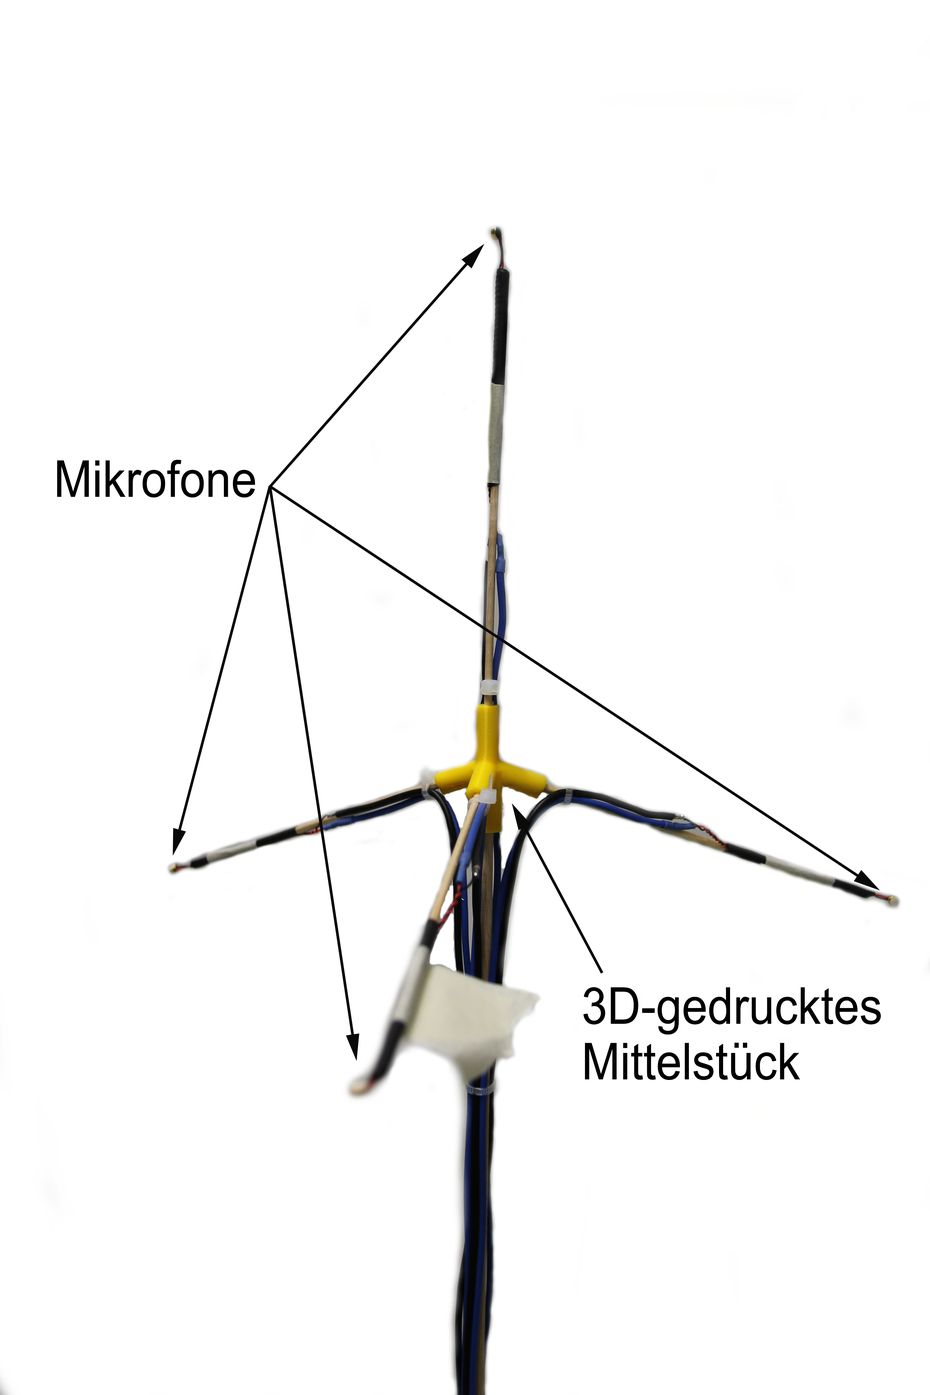
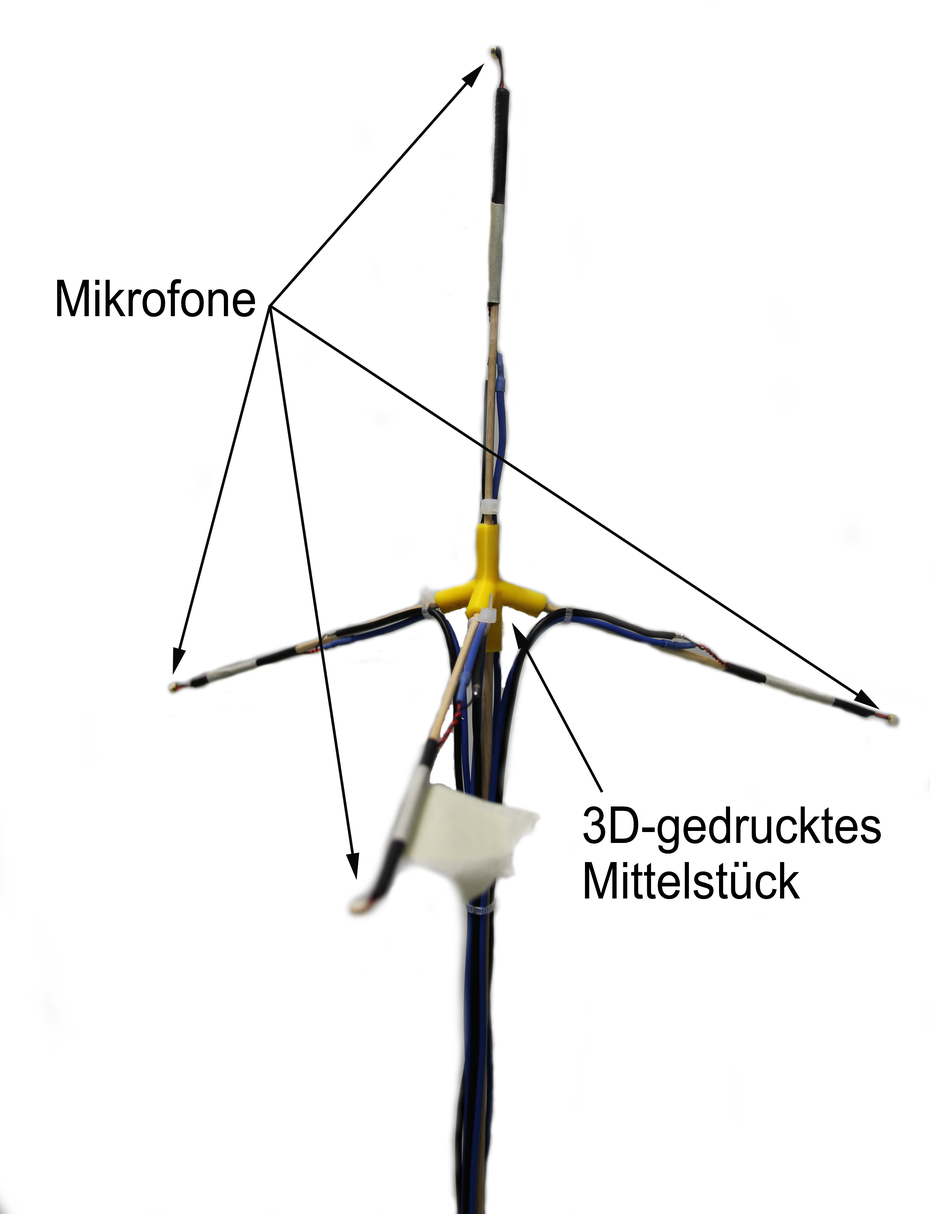
layout and minor changes

diff --git a/implementation.tex b/implementation.tex
@@ -1,15 +1,26 @@
 \section{Umsetzung der einzelnen Module}
-Der Kern unserer Idee ist die Richtungsbestimmung, die aus den Phasendifferenzen der verschiedenen Wellen bei verschiedenen Mikrofonen eine Richtung berechnet. Um diese Komponente überprüfen und das Verfahren anwenden zu können, haben wir die verschiedenen Module implementiert. Hierbei haben wir diese wie vorgesehen so universell umgesetzt, dass wir das Richtungsbestimmungsmodul sowohl mithilfe einer Simulation als auch mithilfe eines praktischen Aufbaus evaluieren können. Das nachfolgende Kapitel beschreibt eben diese Umsetzung in der Reihenfolge, mit der das Signal verarbeitet wird; von der Aufnahme der Schallquellen bis zur Ausgabe der Positionsdaten.
+Der Kern unserer Idee ist die Richtungsbestimmung, die aus den Phasendifferenzen der verschiedenen Wellen bei verschiedenen Mikrofonen eine Richtung berechnet. Um diese Komponente überprüfen und das Verfahren anwenden zu können, haben wir die verschiedenen Module implementiert (Siehe Abbildung \ref{fig:flowchart}). Hierbei haben wir diese wie vorgesehen so universell umgesetzt, dass wir das Richtungsbestimmungsmodul sowohl mithilfe einer Simulation als auch mithilfe eines praktischen Aufbaus evaluieren können. Das nachfolgende Kapitel beschreibt eben diese Umsetzung in der Reihenfolge, mit der das Signal verarbeitet wird; von der Aufnahme der Schallquellen bis zur Ausgabe der Positionsdaten.
+\begin{figure}[H]
+	\includegraphics[width=\linewidth]{img/flowchart}
+	\caption{Der modulare Aufbau unseres Konzeptes}
+	\label{fig:flowchart}
+\end{figure}
 
 \subsection{Audiosimulation (Modul 1)}
 Um die Richtungsbestimmung unabhängig von Störfaktoren wie dem Rauschen und der Reflexion des Schalls an Wänden oder anderen Gegenständen zu überprüfen, haben wir zunächst eine Simulation entwickelt. Außerdem lässt sich mit dieser gezielt der Einfluss verschiedener Störfaktoren untersuchen. Die Simulation kann beliebig viele Mikrofone an beliebigen Positionen simulieren. Leider konnten wir keine bestehenden Lösungen für die Simulation von dreidimensionalem Ton, wie \textit{OpenAL} \cite{OpenAL}, welches eine Programmbibliothek für die Simulation von Schall ist, verwenden, da bei diesen die Anzahl der Mikrofone limitiert ist und die Phase des Audiosignals in der Simulation vernachlässigt wird. Da die Funktion unserer Richtungsbestimmung unabhängig von den Amplituden der Schallquellen bei den einzelnen Mikrofonen ist, haben wir unsere Simulation rein auf die Phase und die Laufzeit beschränkt. Um eine interaktive Benutzung und eine leichte Überprüfung der Richtungsbestimmung zu gewährleisten, besitzt die Simulation eine graphische Benutzeroberfläche, mit der man interaktiv Schallquellen hinzufügen und entfernen kann. Außerdem kann die Simulation auch die bestimmten Richtungen darstellen und ermöglicht damit einen einfachen Vergleich der bestimmten und tatsächlichen Richtungen. Das Simulationsmodul wurde in der Programmiersprache \textit{C++} implementiert, da diese eine gute \textit{OpenGL} Integration bietet.
 
 \begin{figure}[H]
-  \includegraphics[width=\linewidth *.7]{img/bildsimulation}
+	\centering
+  \includegraphics[width=(0.7\linewidth)]{img/bildsimulation}
   \caption{Screenshot der Simulation, die roten Punkte stellen die Mikrofone dar, die schwarzen die Schallquellen und die grünen die georteten Positionen}
 \end{figure}
 
 \subsection{Hardware (Modul 1)}
+\begin{wrapfigure}{R}{0.4\textwidth}
+	\centering
+	\includegraphics[width=\linewidth]{img/tet}
+	\caption{Aufbau unserer Messapparatur}
+\end{wrapfigure}
 Um das durch die Simulation evaluierbare Verfahren praktisch zu testen und zu nutzen, muss nur die Quelle der Daten, also das erste Modul, ausgetauscht werden. Die Aufgabe des ersten Moduls ist es nun nicht mehr, virtuelle Mikrofone, welche die Aufnahme von virtuellen Schallquellen simulieren zu produzieren, sondern die Signale echter Mikrofone, welche echte Schallquellen aufnehmen, einzulesen. Um die Signale der Mikrofone mit einem Computer zu verarbeiten müssen sie digitalisiert werden. Zusätzlich benötigt man eine alternative Implementation der des ersten Moduls, die die Daten von der Hardware annimmt und an das zweite Modul weiterleitet. Hierbei kommen wieder die Vorteile unserer modularen Vorgehensweise zum tragen, da nur das erste Modul ersetzt werden muss und die gesamte restliche Software beibehalten werden kann. Dies sorgt auch dafür, dass die Simulation und die Realwelttests immer die gleichen Auswertungsalgorithmen verwenden und so sehr gut vergleichbar sind.
 \subsubsection{Mikrofone}
 Die erste Komponente, die es bei einem realen Aufbau der Messapparatur eine wichtige Rolle spielt, ist die der Schallwandlung. Dies wird durch Mikrofone realisiert, an die es einige Anforderungen gibt. Die wichtigste Anforderung ist, dass sie eine möglichst gleichmäßige Richtcharakteristik haben.
@@ -17,7 +28,6 @@ Eine weitere Anforderung ist, dass sie möglichst klein sind, da der Abstand zwi
 Wir haben uns dafür entschieden, Elektretmikrofonkapseln zu verwenden, da diese üblich sind, keine aufwendige Elektronik zur Ansteuerung benötigen und die oben aufgeführten Anforderungen relativ gut erfüllen \cite{elektret}.
 Die meisten für uns relevanten Parameter der Mikrofone konnten wir aus den Datenblättern entnehmen. Eine Ausnahme hiervon ist die Richtcharakteristik, welche jedoch für uns sehr wichtig ist, da sie die Messqualität sehr stark beeinflusst. Diese sollte möglichst gleichmäßig sein, da nur so aus allen Richtungen Daten von gleicher Qualität aufgenommen werden können. Wenn zum Beispiel alle Mikrofone eine Nierencharakteristik aufweisen und sie in einem gleichseitigen Dreieck angeordnet sind, liefert mindestens ein Mikrofon ein deutlich schwächeres Signal als die anderen, was dazu führt, das die Phasenlage der einzelnen Wellen ungenauer bestimmt werden und mit ihnen auch die Lokalisation ungenauer wird.
 Um unter diesem Aspekt geeignete Mikrofone zu finden, haben wir die Richtcharakteristiken verschiedener Mikrofone mittels einer selbst entwickelten Messapparatur und einer selbst entwickelten Messsoftware vermessen. Die hierfür entwickelte Messapparatur sendet mittels eines Lautsprechers eine Sinus-Schwingung aus und misst, wie stark diese vom Mikrofon aufgenommen wurde. Danach dreht sie das Mikrofon um einen festgelegten Winkel weiter und fertigt erneut eine Messung an. Dieser Vorgang wird solange wiederholt, bis das Mikrofon einmal um 360$^{\circ}$ gedreht wurde.
-
 \begin{figure}[H]
   \centering
   \includegraphics[width=0.8\linewidth]{img/chara_mess}
@@ -31,12 +41,6 @@ Die so ermittelten Daten können nun mittels des freien Plottingprogramms \texti
   \caption{Auf den beiden Grafiken ist die gemessene Amplitude des Mikrofons über den Winkel aufgetragen. Bei der linken Grafik kann man feststellen, dass das vermessene Mikrofon eine sehr ungleichmäßige Charakteristik aufweist, diese Mikrofone haben wir zu Anfang verwendet. Auf der rechten Seite ist die Charakteristik der Mikrofone zu sehen, die wir in unserem aktuellen Testaufbau verwenden. Diese ist sehr gleichmäßig, weshalb wir die zuerst verwendeten Mikrofone durch diese Mikrofone ausgetauscht haben.}\label{fig:caracter}
 \end{figure}
 Für die reale Messapparatur haben wir vier Mikrofone in einem Tetraeder angeordnet. Dadurch, dass ein Tetraeder symmetrisch ist, sind die Fehler in alle Richtungen ungefähr gleich groß und die Richtungsbestimmung ist in allen Richtungen gleich gut. Um die Charakteristik der Mikrofone möglichst wenig zu verändern, haben wir die Mikrofone nur an ihrem Kabel mit dem Tetraeder verbunden. Dadurch ist der Schallschatten durch den Tetraeder relativ gering. Das Mittelstück des Tetraeders haben wir mit Hilfe eines 3D Druckers hergestellt.
-\begin{wrapfigure}[H]
-  \begin{center}
-    \includegraphics[width=0.35\linewidth]{img/tet}
-  \end{center}
-  \caption{Aufbau unserer Messapparatur}
-\end{wrapfigure}
 \subsubsection{Audiointerface}
 Auch an das Audiointerface, also die Verbindung von Mikrofonen zum Computer, gibt es bestimmte Voraussetzungen. So benötigt unser Verfahren mindestens 4 Mikrofone, jedoch lässt es sich einfach auf mehr Kanäle erweitern, was der Genauigkeit zugute kommt. Daher wird ein Audiointerface mit möglichst vielen Kanälen gesucht. Eine weitere wichtige Anforderung an das Audiointerface ist eine hohe Auflösung, da hierdurch die Signalqualität verbessert wird und digitale Verstärkung bei ausreichender Audioqualität möglich ist. Um die Elekretmikrofonkapseln an das Audiointerface anzuschließen, benötigt man zusätzlich eine Schaltung, welche das unsymmetrische Signal der Elektretmikrofonkapsel in ein symmetrisches Signal für das Audiointerface umwandelt. Außerdem muss diese die Phantomspeisung, die das Audiointerface bereitstellt und eine Spannung von 48V hat, in eine Tonaderspeisung für das Mikrofon konvertieren. Hierfür kommt die Schaltung von \cite{Powering_microphones} zum Einsatz.
 
@@ -50,8 +54,9 @@ Aus einer diskreten Fourier-Transformation von $n$ reellen Zahlen erhält man ei
 $$
 f = \frac{i\cdot r}{n}
 $$
-$r$ ist dabei die Abtastrate des Signals. Die Amplitude $A$ des Sinus lässt sich mit dem Betrag der komplexen Zahl berechnen und die Phase $\phi$ mit dem Arcus-Tangens, dies entspricht der Koordinatentransformation von einem kartesischem in das polare Koordinatensystem:
+$r$ ist dabei die Abtastrate des Signals. Die Amplitude $A$ des Sinus lässt sich mit dem Betrag der komplexen Zahl berechnen und die Phase $\phi$ mit dem Arcus-Tangens, dies entspricht der Koordinatentransformation von einem kartesischem in das polare Koordinatensystem:\\
 \begin{minipage}{0.49\textwidth}
+	\vspace{-40pt}
   $$
   A = \sqrt[]{{\Re(z)}^2 + {\Im(z)}^2}
   $$
@@ -63,14 +68,14 @@ $r$ ist dabei die Abtastrate des Signals. Die Amplitude $A$ des Sinus lässt sic
   $$
 \end{minipage}
 \begin{minipage}{0.49\textwidth}
-  \begin{figure}
+  \begin{figure}[H]
     \centering
-    \scalebox{.6}{\input{img/polarconvert.tex}}
+    \scalebox{.7}{\input{img/polarconvert.tex}}
     \caption{Transformation von kartesischen zu polaren Koordinatensystem}
     \label{fig:polarconvert}
   \end{figure}
-  \todo{fixme}
 \end{minipage}
+\\
 Die Verwendung von $\operatorname{atan2}(y,x)$ anstelle von $\arctan\frac{y}{x}$ sorgt dafür, dass der richtige Winkel berechnet wird. $\arctan\frac{y}{x}$ liefert nur Winkel von -90\degree bis 90\degree, deswegen muss anhand des Vorzeichens von $x$ und $y$ bestimmt werden, in welchem Quadranten der Punkt liegt und der von $\arctan\frac{y}{x}$ gelieferte Winkel dementsprechend verschoben werden.
 
 Das in Frequenz, Phase und Amplitude konvertierte Ergebnis der Fourier-Transformation wird dann gefiltert. Alle Frequenzen mit einer Amplitude, die kleiner als eine bestimmte Untergrenze ist, werden verworfen. Die verbleibenden Frequenzen werden an das Richtungsmodul übermittelt.
@@ -79,19 +84,20 @@ Das in Frequenz, Phase und Amplitude konvertierte Ergebnis der Fourier-Transform
 Die von der Fourier-Transformation bestimmten Tripel aus Frequenz, Phase und Amplitude werden vom Richtungsmodul weiter verarbeitet. In das Richtungsmodul können verschiedene Methoden der Richtungsbestimmung eingesetzt werden. Das Verfahren zur Richtungsbestimmung, das von dem Richtungsmodul verwendet wird, kann einfach ausgetauscht werden. Die ermittelten Richtungen werden an die Ausgabe weitergesendet um sie dort auszugeben oder zur Filterung des Audio-Signals zu verwenden.
 Das Richtungsmodul ist in C++ geschrieben und verwendet \textit{LAPACK}\cite{Anderson:1990:LPL:110382.110385}.
 \subsection{Ausgabemodul (Modul 4)}
+\begin{wrapfigure}{r}{0.5\textwidth}
+	\centering
+	\includegraphics[width=0.49\textwidth]{img/output}
+	\caption{Screenshot unseres Beispiel-Ausgabemoduls}
+	\label{fig:output}
+\end{wrapfigure}
 Wir haben ein Beispiel-Ausgabemodul in Javascript implementiert. Mit diesem ist es möglich, die Positionsdaten zu visualisieren, was das unmittelbare Evaluieren stark vereinfacht. Die Programmiersprache Javascript haben wir gewählt, damit dieses Ausgabemodul auf jedem Endgerät mit modernem Webbrowser, wie z.B. Smartphones oder Laptops, ausgeführt werden kann.\\
 Die Simulation enthält eine weitere Implementation eines Ausgabemoduls. Auch diese visualisiert die bestimmten Richtungen, erlaubt es aber, diese auf der gleichen Benutzeroberfläche wie die Sollrichtung anzuzeigen. Dies gibt ein sehr direktes Feedback beim Entwickeln des Algorithmus zur Richtungsbestimmung. Dieses letzte Modul könnte allerdings, dank unseres modularen Konzeptes, bei Bedarf auch anders, z.B. als Plugin für eine \textit{Digital Audio Workstation} (\textit{DAW}) implementiert werden.
-\begin{wrapfigure}{H}{0.5\textwidth}
-  \centering
-  \includegraphics[width=0.49\textwidth]{img/output}
-  \caption{Screenshot unseres Beispiel-Ausgabemoduls}
-  \label{fig:output}
-\end{wrapfigure}
 \subsection{Testen der einzelnen Module}
 Ein weiterer Vorteil der Modularität ist, dass jedes Modul unabhängig von den anderen Modulen funktionsfähig ist. Dadurch kann die korrekte Funktionsweise für jedes Modul einzeln überprüft werden und man kann Fehler besser lokalisieren.
 Die Audiosimulation haben wir mithilfe eines selbstgeschriebenem Plotting Programms überprüft. Dieses stellt die von der Audiosimulation versendeten Samples in Abhängigkeit der Zeit dar. Damit kann manuell die Phasendifferenz von dem Graphen abgelesen und mit dem erwarteten Wert verglichen werden.
 \begin{figure} [H]
-  \includegraphics[width=\linewidth]{img/glplot}
+	\centering
+  \includegraphics[width=.8\linewidth]{img/glplot}
   \caption{Screenshot unseres Plotting Programms}
   \label{fig:glplot}
 \end{figure}

diff --git a/existing.tex b/existing.tex
@@ -1,9 +1,9 @@
 \section{Bestehende Lösungen}
-  Es gibt einige bestehende Ansätze, die die verschiedenen Aspekte des direktionalen Hörens auf eine technische Apparatur übertragen. Diesen begegnen wir in unserem alltäglichen Leben relativ häufig. Die einfachste Form eines solchen Verfahrens ist das Richtmikrofon. Dieses führt allerdings keine aktive Ortung durch, sondern kann lediglich in eine bestimmte Richtung besonders gut Schall aufnehmen. Um diese Fähigkeit für eine Richtungsbestimmung zu nutzen, müsste man also das Richtmikrofon drehen, oder es auf eine andere Weise aktiv nach der Schallquelle ausrichten. Ein weiterer Ansatz, dem wir in unserem alltäglichen Leben noch sehr viel häufiger begegnen, steckt in fast allen Mobiltelefonen. Diese filtern beim Telefonieren verschiedene Umgebungsgeräusche aus dem Mikrofonsignal, um die Sprachqualität zu verbessern. Die hierzu verwendeten Verfahren sind allerdings meist eher einfach gehalten und erlauben keine wirkliche Bestimmung der Herkunftsrichtung eines Geräusches. Man kann sich dieses Verfahren sehr gut als ein Richtmikrofon vorstellen, das einen gewissen Bereich hat, in dem es sehr empfindlich ist, wohingegen es in anderen Bereichen sehr unempfindlich ist. Bei dieser Technik passiert ein Teil der Geräuschunterdrückung in der Signalverarbeitung, also nach der eigentlichen Schallwandlung durch das Mikrofon. Hierdurch unterscheidet sich dieser Ansatz deutlich von dem des Richtmikrofones. Allerdings können auch mithilfe dieser Störgeräuschunterdrückung noch keine Positionen ermittelt werden. Auch moderne Hörgeräte verwenden ein ähnliches Verfahren, welches allerdings auch bei einer weiteren Distanz zwischen Mikrofon und Schallquelle funktioniert, und der gesuchten Lösung somit näher kommt. Sowohl die Geräuschunterdrückung in Handys, als auch die Filtertechniken in Hörgeräten verwenden meist zwei oder drei Mikrophone.
-  \begin{wrapfigure}[H]
-    \centering
-    \includegraphics[width=0.35\linewidth]{img/akusticCamera}
-    \caption{Ein Beispiel für eine akustische Kamera \cite{camera}}
-    \label{fig:camera}
-  \end{wrapfigure}
+  Es gibt einige bestehende Ansätze, die die verschiedenen Aspekte des direktionalen Hörens auf eine technische Apparatur übertragen. Diesen begegnen wir in unserem alltäglichen Leben relativ häufig. Die einfachste Form eines solchen Verfahrens ist das Richtmikrofon. Dieses führt allerdings keine aktive Ortung durch, sondern kann lediglich in eine bestimmte Richtung besonders gut Schall aufnehmen. Um diese Fähigkeit für eine Richtungsbestimmung zu nutzen, müsste man also das Richtmikrofon drehen, oder es auf eine andere Weise aktiv nach der Schallquelle ausrichten. Ein weiterer Ansatz, dem wir in unserem alltäglichen Leben noch sehr viel häufiger begegnen, steckt in fast allen Mobiltelefonen. Diese filtern beim Telefonieren verschiedene Umgebungsgeräusche aus dem Mikrofonsignal, um die Sprachqualität zu verbessern. Die hierzu verwendeten Verfahren sind allerdings meist eher einfach gehalten und erlauben keine wirkliche Bestimmung der Herkunftsrichtung eines Geräusches. Man kann sich dieses Verfahren sehr gut als ein Richtmikrofon vorstellen, das einen gewissen Bereich hat, in dem es sehr empfindlich ist, wohingegen es in anderen Bereichen sehr unempfindlich ist. Bei dieser Technik passiert ein Teil der Geräuschunterdrückung in der Signalverarbeitung, also nach der eigentlichen Schallwandlung durch das Mikrofon. Hierdurch unterscheidet sich dieser Ansatz deutlich von dem des Richtmikrofones. Allerdings können auch mithilfe dieser Störgeräuschunterdrückung noch keine Positionen ermittelt werden. Auch moderne Hörgeräte verwenden ein ähnliches Verfahren, welches allerdings auch bei einer weiteren Distanz zwischen Mikrofon und Schallquelle funktioniert, und der gesuchten Lösung somit näher kommt. Sowohl die Geräuschunterdrückung in Handys, als auch die Filtertechniken in Hörgeräten verwenden meist zwei oder drei Mikrophone.\\
+     \begin{wrapfigure}{r}{0.6\textwidth}
+     	\centering
+     	\includegraphics[width=0.4\linewidth]{img/akusticCamera}
+     	\caption{Ein Beispiel für eine akustische Kamera \cite{camera}}
+     	\label{fig:camera}
+     \end{wrapfigure}
   Eine andere existierende Lösung ist die akustische Kamera (siehe Abb. \ref{fig:camera}). Sie wird dazu verwendet, lärm-emittierende Positionen an Produkten zu finden, um diese optimieren zu können \cite{camera}. Die akustische Kamera verwendet allerdings bedeutend mehr Mikrofone als die anderen Verfahren. Einige Modelle verwenden mehr als 350 Mikrofone \cite{nmics}.Außerdem können bestehende akustische Kameras nicht in andere technische Kontexte eingebettet werden und sind so nicht universell einsetzbar. Da uns alle vorhandenen Lösungen nicht zufrieden gestellt haben, wollten wir ein eigenes Verfahren für die akustischen Richtungsbestimmung entwickeln, das schon mit einer geringen Anzahl von Mikrofonen eine komplette Richtungsbestimmung ermöglicht und leicht erweiterbar auf weitere Auswertungsschritte ist.

diff --git a/konzept.tex b/konzept.tex
@@ -1,13 +1,17 @@
 \section{Konzept}
-Bei der Entwicklung unseres neuen Verfahren zur Richtungsbestimmung haben wir uns stark am menschlichen Gehör und seiner Fähigkeit des Richtungshörens orientiert. Da beim menschlichen Gehör verschiedene Verarbeitungssstufen durchlaufen werden, ist auch unsere Software modular aufgebaut (siehe Abbildung \ref{fig:flowchart}). Nachfolgend werden die einzelnen Module in der Reihenfolge, in der das Signal sie durchläuft, beschrieben. 
+Bei der Entwicklung unseres neuen Verfahren zur Richtungsbestimmung haben wir uns stark am menschlichen Gehör und seiner Fähigkeit des Richtungshörens orientiert. Da beim menschlichen Gehör verschiedene Verarbeitungssstufen durchlaufen werden, ist auch unsere Software modular aufgebaut (siehe Tabelle \ref{analog}). Nachfolgend werden die einzelnen Module in der Reihenfolge, in der das Signal sie durchläuft, beschrieben. 
 Um unser Konzept umzusetzen und zu evaluieren, haben wir uns entschlossen, einerseits eine Computersimulation zu schreiben und andererseits mithilfe einer realen Messapparatur zu überprüfen, ob unser Verfahren auch in der Echtwelt verwendbar ist. Der reale Aufbau soll zuerst in einer Schallkammer, also einem Raum mit wenigen akustischen Störquellen von außen und mit wenigen akustischen Reflexionen an den Wänden, und erst danach unter Einfluss von Störungen getestet werden. Dieses Vorgehen hat den Vorteil, dass man zuerst die Theorie entwickeln kann, und danach die Theorie und ihre Implementation in den verschiedenen Schritten zum Endprodukt immer weiter an Realwelteffekte, wie z.B. Rauschen, anpassen kann. Auch hierbei hilft der modulare Aufbau, da so möglichst viele Programmteile sowohl in der Simulation, als auch in realen Aufbauten verwendet werden können.
-\todo{Tabelle oder Grafik mit Analogie machen; Jaro ist für einbauen}
-\todo{diese Grafik eventuell in den Abschnitt Umsetzung moven}
-\begin{figure}[H]
-    \includegraphics[width=\linewidth]{img/flowchart}
-	\caption{Der modulare Aufbau unseres Konzeptes}
-	\label{fig:flowchart}
-\end{figure}
+\begin{table}[h]
+	\centering
+	\begin{tabular}{l|l}
+		Mensch            & Maschine                                   \\ \hline
+		Ohren             & Mikrofonarray                              \\
+		Haarzellen im Ohr & Fourier Transformation                     \\
+		Selektives Hören  & Weiterverarbeitung durch Programme Dritter
+	\end{tabular}
+	\caption{Die Analogie zwischen dem menschlichen Gehör und unserem Verfahren}
+	\label{analog}
+\end{table}
 Unser Konzept sieht vier Module vor, welche über TCP/IP und Websockets verbunden sind. Dies sind Standards, mit denen über ein Computernetzwerk Daten ausgetauscht werden können \cite{tcp} \cite{websockets}. Diese beiden Protokolle sind sehr zuverlässig und lange erprobt. Außerdem garantieren diese, dass alle Daten in der Reihenfolge, in der sie losgeschickt werden, ankommen. Die Verwendung von Netzwerkprotokollen hat den Vorteil, dass die Module nicht unbedingt auf demselben Computer ausgeführt werden müssen und so der Rechenaufwand bei Bedarf auf mehrere Computer verteilt werden kann.
 
 \subsection{Modul 1: Eingabe/Aufnahme}

diff --git a/eval.tex b/eval.tex
@@ -25,23 +25,19 @@ Um die Abhängigkeit der Genauigkeit der Richtungsbestimmung von der Frequenz zu
 \end{figure}
 Man sieht, dass die Genauigkeit der Richtungsbestimmung (fast) unabhängig von der Frequenz der Schallquelle ist. Für Frequenzen über $675Hz$ ist die Bedingung, dass die Abstände der Mikrofone kleiner als die halbe Wellenlänge sein muss, nicht mehr erfüllt.
 \subsection{Echtwelt}
-In unseren Simulationen hat sich gezeigt, dass unser Verfahren sehr genau arbeitet. Um zu untersuchen, wie genau es unter dem Einfluss von Störungen und mit den Fehlern durch die Aufnahme mit Mikrofonen arbeitet, haben wir für acht verschiedene Positionen der Schallquelle die Abweichung der Richtung bestimmt. Diese Messung haben wir in einem mit speziellem Schaumstoff~\cite{BASOTECT} ausgekleideten Raum durchgeführt, um Störungen wie Reflexionen, in der Testphase, zu minimieren. Der Lautsprecher war jeweils $0.75m$ von dem Zentrum der Mikrofone entfernt.\\
-\begin{minipage}{0.49\linewidth}
+In unseren Simulationen hat sich gezeigt, dass unser Verfahren sehr genau arbeitet. Um zu untersuchen, wie genau es unter dem Einfluss von Störungen und mit den Fehlern durch die Aufnahme mit Mikrofonen arbeitet, haben wir für acht verschiedene Positionen der Schallquelle die Abweichung der Richtung bestimmt. Diese Messung haben wir in einem mit speziellem Schaumstoff~\cite{BASOTECT} ausgekleideten Raum durchgeführt, um Störungen wie Reflexionen, in der Testphase, zu minimieren. Der Lautsprecher war jeweils $0.75m$ von dem Zentrum der Mikrofone entfernt.
 \begin{figure}[H]
   \centering
-  \resizebox{!}{0.7\textwidth}{\input{img/real}}
+  \resizebox{!}{0.55\textwidth}{\input{img/real}}
   \caption{Genauigkeit in der Echtwelt}
   \label{fig:real}
 \end{figure}
-\end{minipage}\hfill
-\begin{minipage}{0.49\linewidth}
 \begin{figure}[H]
   \centering
-  \includegraphics[width=\textwidth]{img/pos_1}
+  \includegraphics[width=.5\textwidth]{img/pos_1}
   \caption{Versuchsaufbau zur Messung der Genauigkeit der Richtungsbestimmung in der Schallkammer}
   \label{fig:real_reral}
 \end{figure}
-\end{minipage}
 Für die acht verschiedenen Richtungen hatte die Richtungsbestimmung eine Genauigkeit von $3.9^\circ \pm 0.13^\circ$. Allerdings hatte der Lautsprecher bei dem von uns gewählten Abstand eine Winkelgröße von $3.2^\circ$, genauer als diese kann die Richtungsbestimmung also nicht sein. Die Richtungsbestimmung mit unserem Verfahren ist also auch in der Echtwelt genauer als beim Menschen.
 Um die Verwendbarkeit unseres Verfahren auch außerhalb einer Schallkammer zu testen, haben wir die Richtungsbestimmung zweier sich unterhaltender Personen untersucht.\\
 \begin{minipage}{0.49\linewidth}

diff --git a/main.tex b/main.tex
@@ -14,7 +14,7 @@
 \usepackage{listings,xcolor,gnuplottex}
 
 % Space savings:
-\usepackage[top=2.5cm, left=2.5cm, right=2.5cm, bottom=2cm]{geometry}
+\usepackage[top=7cm, left=2.5cm, right=2.5cm, bottom=3cm]{geometry}
 \setlength\parindent{0pt}
 %\usepackage[subtle]{savetrees}
 
@@ -40,11 +40,20 @@
 \date{\today}
 
 \begin{document}
-  \maketitle
-  \todo{write abstract, kommt nicht hier rein}
-  \todo{schöneres Deckblatt; SFN Logo; Dankesagung}
+  \begin{centering}
+  	Jugend forscht-Arbeit
+  	{\let\newpage\relax\maketitle}
+  	\begin{figure}
+  		\centering
+  		{\large Erstellt im Schülerforschungszentrum Nordhessen}\\
+  		\vspace{20pt}
+  		\includegraphics[width=0.2\textwidth]{img/sfn}
+  	\end{figure}
+  	\todo{write abstract, kommt nicht hier rein}
+  	\todo{schöneres Deckblatt; SFN Logo; Dankesagung}
+  \end{centering}
   \thispagestyle{empty}
-  
+  \newgeometry{top=2.5cm, left=2.5cm, right=2.5cm, bottom=2cm}
   \newpage
   \tableofcontents
   \thispagestyle{empty}

diff --git a/2D.tex b/2D.tex
@@ -11,6 +11,7 @@ $$\begin{cases}
 \end{cases}$$
 Graphisch veranschaulicht entspricht dieses Gleichungssystem der Suche nach dem Schnittpunkt von zwei halben Hyperbeln um zwei der Mikrofone
 \begin{figure}[H]
+	\vspace{-20pt}
   \includegraphics[width=\linewidth]{img/skizze1d}
   \caption{Veranschaulichung des Gleichungssystems durch den Schnittpunkt von zwei Hyperbeln, die roten Punkte stellen die Mikrofone dar und der grüne Punkt die Schallquelle}
 \end{figure}
